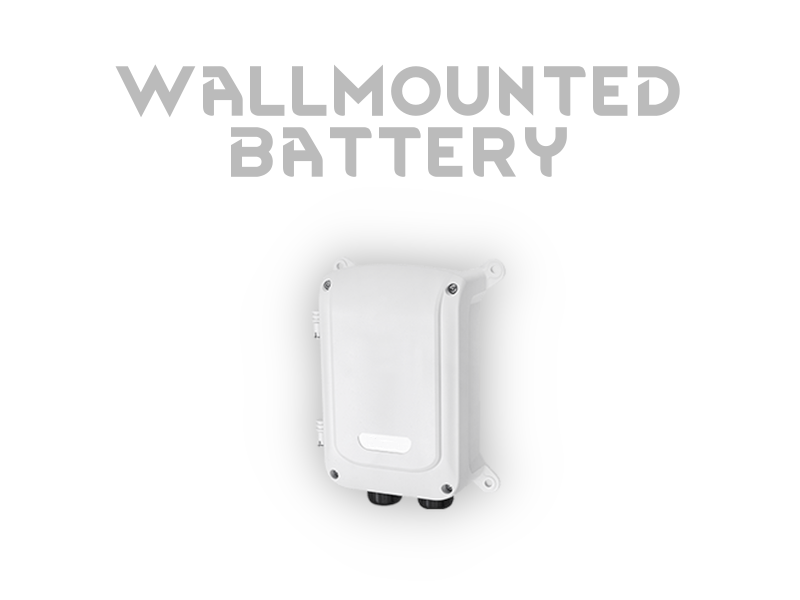
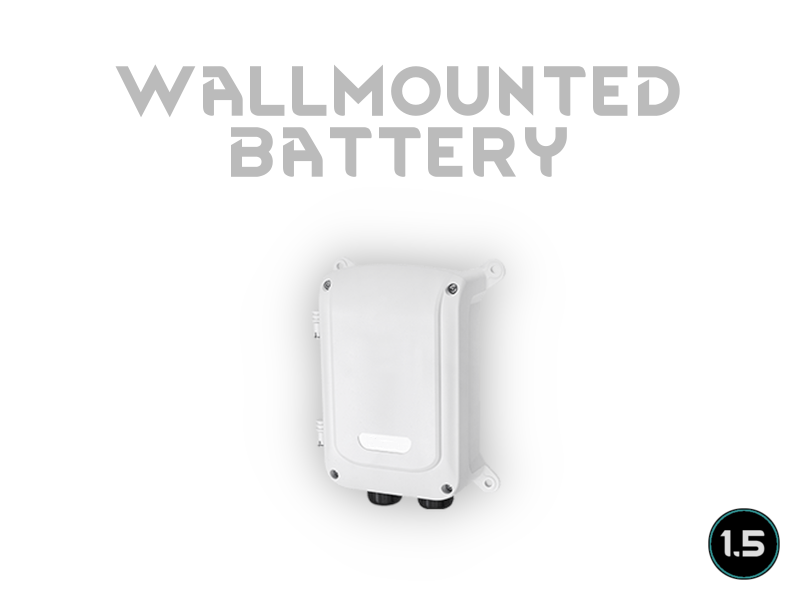
Mod updated for 1.5 and passed autotests

Changed region(s): [[0.875, 0.84, 1.0, 0.99]]

diff --git a/Source/WallmountedBattery/Building_WallmountedBattery.cs b/Source/WallmountedBattery/Building_WallmountedBattery.cs
@@ -76,14 +76,14 @@ public class Building_WallmountedBattery : Building
     }
 
 
-    public override void Draw()
+    protected override void DrawAt(Vector3 drawLoc, bool flip = false)
     {
-        base.Draw();
+        base.DrawAt(drawLoc, flip);
         var currentRotation = Rotation.AsInt;
         var comp = GetComp<CompPowerBattery>();
 
         var r = default(GenDraw.FillableBarRequest);
-        r.center = DrawPos;
+        r.center = drawLoc;
 
         const float offsetFromCenter = 0.3f;
         const float northOffset = 0.16f;

diff --git a/README.md b/README.md
@@ -1,31 +1,32 @@
 # WallmountedBatteries
 
-![Image](https://i.imgur.com/buuPQel.png)
+![Image](https://i.imgur.com/iCj5o7O.png)
 
 
 Adds a small battery mountable on walls. 
 Its outer-casing makes it resistant to rain and neutral to look at.
 Half the size and capacity of a normal battery.
 
-![Image](https://i.imgur.com/O0IIlYj.png)
+![Image](https://i.imgur.com/Ds0rBAD.png)
 
 Since modding is just a hobby for me I expect no donations to keep modding. If you still want to show your support you can gift me anything from my https://store.steampowered.com/wishlist/id/Mlie]Wishlist or buy me a cup of tea.
 
-https://ko-fi.com/G2G55DDYD]![Image](https://i.imgur.com/Utx6OIH.png)
+https://ko-fi.com/G2G55DDYD]![Image](https://i.imgur.com/VWG0yff.png)
 
 
-![Image](https://i.imgur.com/PwoNOj4.png)
+![Image](https://i.imgur.com/5xwDG6H.png)
 
 
 
 -  See if the the error persists if you just have this mod and its requirements active.
 -  If not, try adding your other mods until it happens again.
--  Post your error-log using https://steamcommunity.com/workshop/filedetails/?id=818773962]HugsLib and command Ctrl+F12
+-  Post your error-log using https://steamcommunity.com/workshop/filedetails/?id=818773962]HugsLib or the standalone https://steamcommunity.com/sharedfiles/filedetails/?id=2873415404]Uploader and command Ctrl+F12
 -  For best support, please use the Discord-channel for error-reporting.
 -  Do not report errors by making a discussion-thread, I get no notification of that.
 -  If you have the solution for a problem, please post it to the GitHub repository.
+-  Use https://github.com/RimSort/RimSort/releases/latest]RimSort to sort your mods
 
 
 
+https://steamcommunity.com/sharedfiles/filedetails/changelog/2514057480]![Image](https://img.shields.io/github/v/release/emipa606/WallmountedBatteries?label=latest%20version&style=plastic&labelColor=0070cd&color=white)
 
-https://steamcommunity.com/sharedfiles/filedetails/changelog/2514057480]Last updated 2023-02-10
